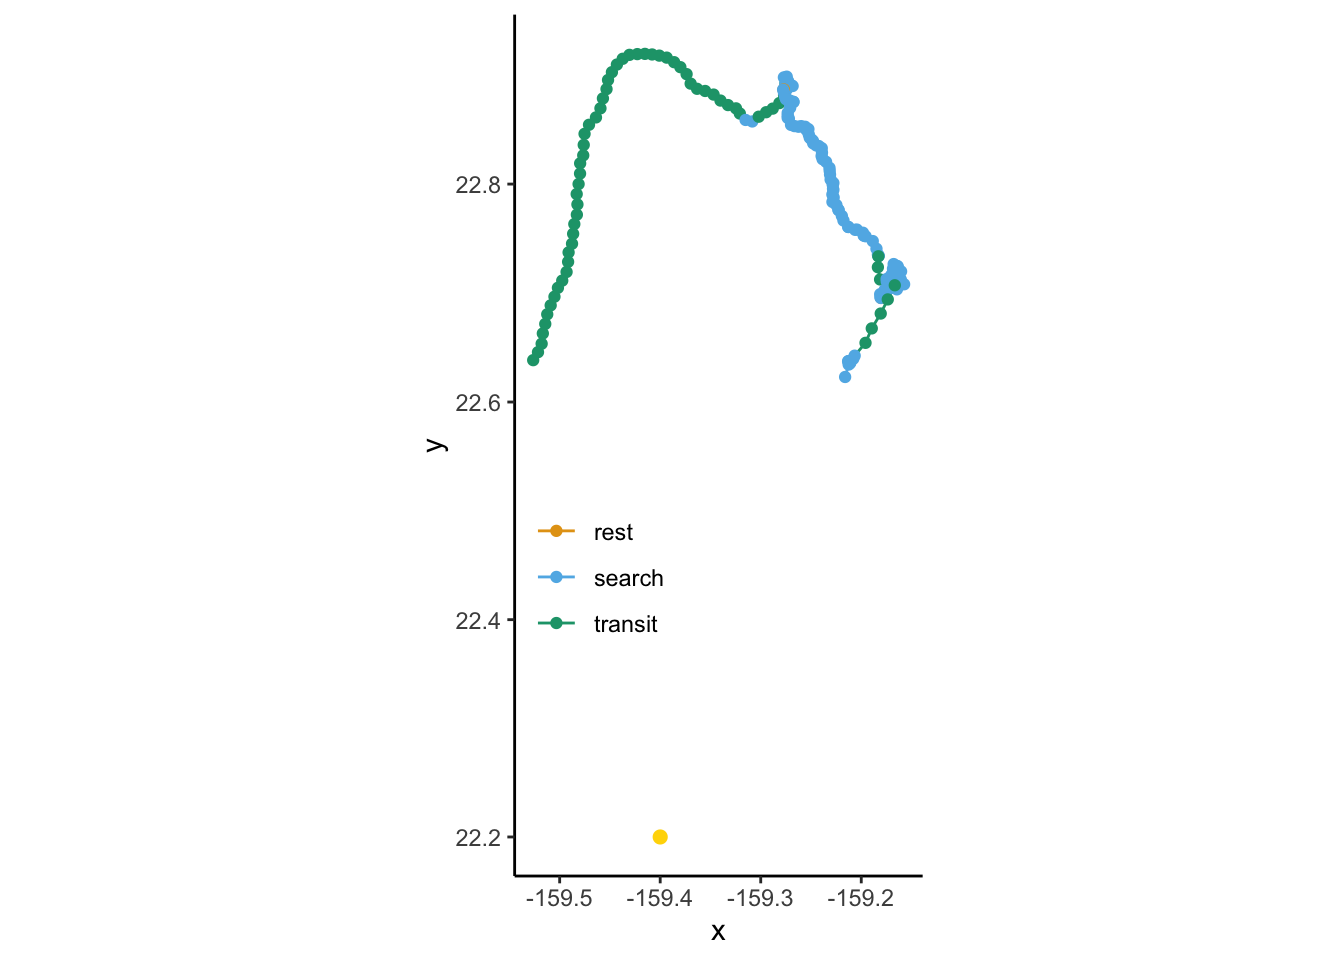
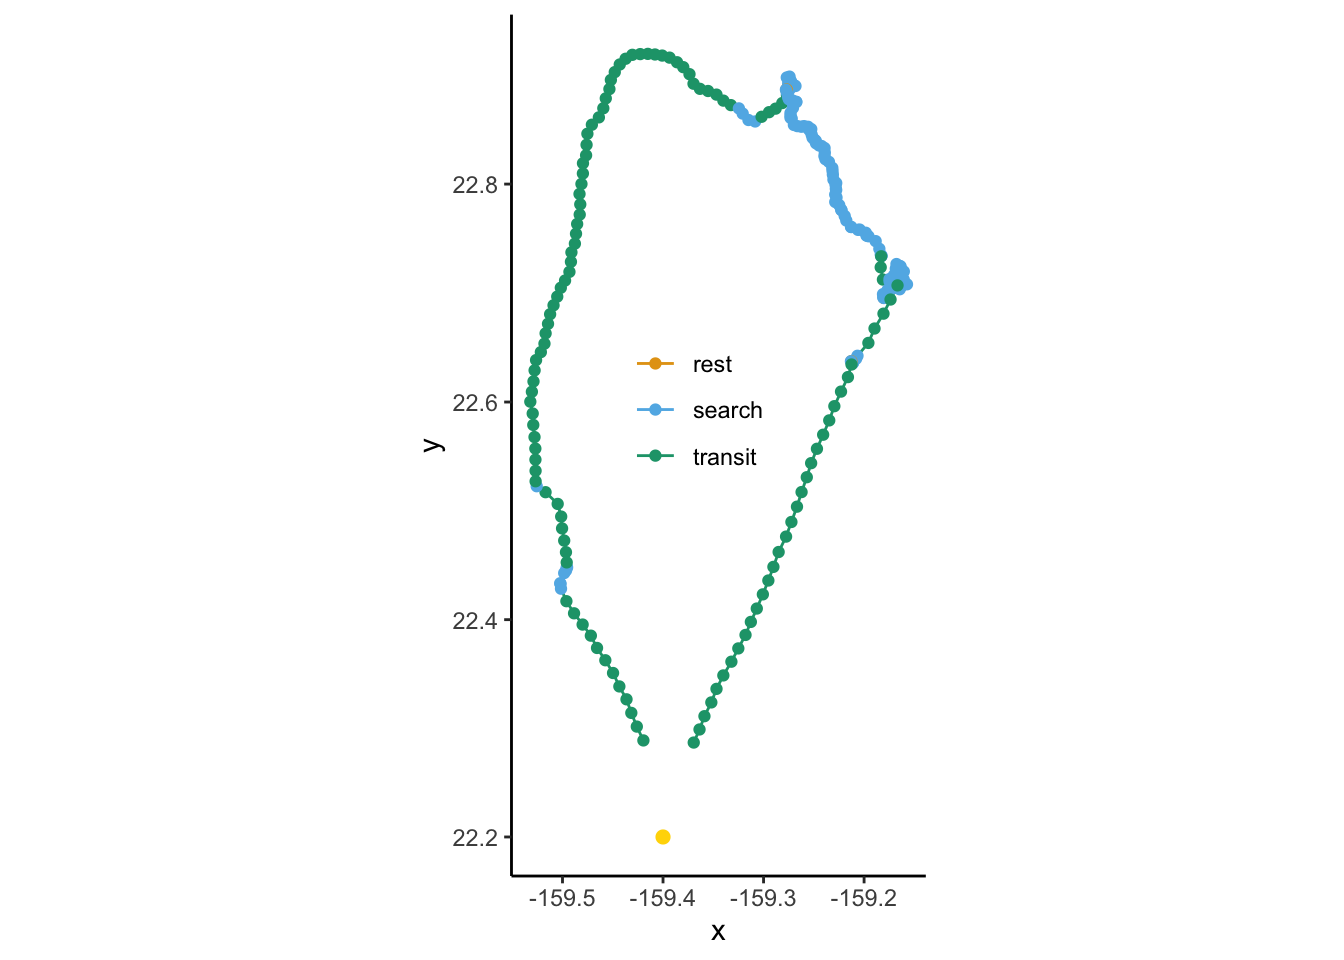
change distance threshold to 10 km

diff --git a/analysis/workflow/01_trips.html b/analysis/workflow/01_trips.html
@@ -128,11 +128,11 @@ code span.wa { color: #60a0b0; font-weight: bold; font-style: italic; } /* Warni
 <h2 class="anchored" data-anchor-id="trip-summary">Trip summary</h2>
 <p>RFBO tracks were cleaned and filtered according to the following:</p>
 <ul>
-<li><p>Tracks were split into trips, defined as excursions &gt;50 km from the colony lasting &gt;2 hours.</p></li>
+<li><p>Tracks were split into trips, defined as excursions &gt;10 km from the colony lasting &gt;2 hours.</p></li>
 <li><p>Relocations within trips were re-discretized using linear interpolation at 2 min intervals.</p></li>
 <li><p>Only trips with gaps ≤1 relocation were retained.</p></li>
 </ul>
-<p>That left 34 trips from 11 individuals. This sample size is small, so we probably want to relax the constraints.</p>
+<p>That left 17 trips from 8 individuals. This sample size is small, so we probably want to relax the constraints.</p>
 </section>
 <section id="movement-modeling" class="level2">
 <h2 class="anchored" data-anchor-id="movement-modeling">Movement modeling</h2>
@@ -153,17 +153,17 @@ code span.wa { color: #60a0b0; font-weight: bold; font-style: italic; } /* Warni
 <tr class="odd">
 <td><em>transit</em></td>
 <td>1.3</td>
-<td>0.37</td>
+<td>0.30</td>
 </tr>
 <tr class="even">
 <td><em>search</em></td>
-<td>0.37</td>
+<td>0.38</td>
 <td>0.18</td>
 </tr>
 <tr class="odd">
 <td><em>rest</em></td>
-<td>0.048</td>
-<td>0.028</td>
+<td>0.049</td>
+<td>0.022</td>
 </tr>
 </tbody>
 </table>
@@ -180,18 +180,18 @@ code span.wa { color: #60a0b0; font-weight: bold; font-style: italic; } /* Warni
 <tbody>
 <tr class="odd">
 <td><em>transit</em></td>
-<td>-0.011</td>
-<td>7.2</td>
+<td>-0.010</td>
+<td>6.5</td>
 </tr>
 <tr class="even">
 <td><em>search</em></td>
-<td>-0.043</td>
-<td>1.7</td>
+<td>-0.011</td>
+<td>1.3</td>
 </tr>
 <tr class="odd">
 <td><em>rest</em></td>
-<td>-0.015</td>
-<td>2.7</td>
+<td>0.0080</td>
+<td>2.5</td>
 </tr>
 </tbody>
 </table>
@@ -242,13 +242,13 @@ code span.wa { color: #60a0b0; font-weight: bold; font-style: italic; } /* Warni
 </section>
 <section id="example-decoded-trip" class="level3">
 <h3 class="anchored" data-anchor-id="example-decoded-trip">Example decoded trip</h3>
-<p>Map of a trip with and without KPNWR for scale.</p>
+<p>Map of a trip with KPNWR for scale.</p>
 <div class="cell">
 <details>
 <summary>Code</summary>
 <div class="sourceCode cell-code" id="cb2"><pre class="sourceCode r code-with-copy"><code class="sourceCode r"><span id="cb2-1"><a href="#cb2-1" aria-hidden="true" tabindex="-1"></a>kpnwr <span class="ot">&lt;-</span> <span class="fu">c</span>(<span class="at">lon =</span> <span class="sc">-</span><span class="fl">159.4</span>, <span class="at">lat =</span> <span class="fl">22.2</span>)</span>
 <span id="cb2-2"><a href="#cb2-2" aria-hidden="true" tabindex="-1"></a></span>
-<span id="cb2-3"><a href="#cb2-3" aria-hidden="true" tabindex="-1"></a>burst <span class="ot">&lt;-</span> <span class="fu">filter</span>(tracks, burst <span class="sc">==</span> <span class="st">"1149_0046"</span>) <span class="sc">%&gt;%</span> </span>
+<span id="cb2-3"><a href="#cb2-3" aria-hidden="true" tabindex="-1"></a>burst <span class="ot">&lt;-</span> <span class="fu">filter</span>(tracks, burst <span class="sc">==</span> <span class="st">"1149_0054"</span>) <span class="sc">%&gt;%</span> </span>
 <span id="cb2-4"><a href="#cb2-4" aria-hidden="true" tabindex="-1"></a>  <span class="fu">mutate</span>(<span class="at">state =</span> <span class="fu">factor</span>(state, </span>
 <span id="cb2-5"><a href="#cb2-5" aria-hidden="true" tabindex="-1"></a>                        <span class="at">levels =</span> <span class="dv">1</span><span class="sc">:</span><span class="dv">3</span>, </span>
 <span id="cb2-6"><a href="#cb2-6" aria-hidden="true" tabindex="-1"></a>                        <span class="at">labels =</span> <span class="fu">c</span>(<span class="st">"rest"</span>, <span class="st">"search"</span>, <span class="st">"transit"</span>)))</span>
@@ -261,27 +261,12 @@ code span.wa { color: #60a0b0; font-weight: bold; font-style: italic; } /* Warni
 <span id="cb2-13"><a href="#cb2-13" aria-hidden="true" tabindex="-1"></a>  <span class="fu">scale_color_manual</span>(<span class="at">values =</span> palette) <span class="sc">+</span></span>
 <span id="cb2-14"><a href="#cb2-14" aria-hidden="true" tabindex="-1"></a>  <span class="fu">coord_map</span>() <span class="sc">+</span></span>
 <span id="cb2-15"><a href="#cb2-15" aria-hidden="true" tabindex="-1"></a>  <span class="fu">theme_classic</span>() <span class="sc">+</span></span>
-<span id="cb2-16"><a href="#cb2-16" aria-hidden="true" tabindex="-1"></a>  <span class="fu">theme</span>(<span class="at">legend.justification =</span> <span class="fu">c</span>(<span class="dv">0</span>, <span class="dv">0</span>),</span>
-<span id="cb2-17"><a href="#cb2-17" aria-hidden="true" tabindex="-1"></a>        <span class="at">legend.position =</span> <span class="fu">c</span>(<span class="fl">0.01</span>, <span class="fl">0.25</span>),</span>
+<span id="cb2-16"><a href="#cb2-16" aria-hidden="true" tabindex="-1"></a>  <span class="fu">theme</span>(<span class="at">legend.justification =</span> <span class="fu">c</span>(<span class="fl">0.5</span>, <span class="fl">0.5</span>),</span>
+<span id="cb2-17"><a href="#cb2-17" aria-hidden="true" tabindex="-1"></a>        <span class="at">legend.position =</span> <span class="fu">c</span>(<span class="fl">0.45</span>, <span class="fl">0.55</span>),</span>
 <span id="cb2-18"><a href="#cb2-18" aria-hidden="true" tabindex="-1"></a>        <span class="at">legend.title =</span> <span class="fu">element_blank</span>())</span></code><button title="Copy to Clipboard" class="code-copy-button"><i class="bi"></i></button></pre></div>
 </details>
 <div class="cell-output-display">
 <p><img src="01_trips_files/figure-html/decoded-trips-1.png" class="img-fluid" width="672"></p>
-</div>
-<details>
-<summary>Code</summary>
-<div class="sourceCode cell-code" id="cb3"><pre class="sourceCode r code-with-copy"><code class="sourceCode r"><span id="cb3-1"><a href="#cb3-1" aria-hidden="true" tabindex="-1"></a><span class="fu">ggplot</span>(burst, <span class="fu">aes</span>(x, y, <span class="at">color =</span> state, <span class="at">group =</span> <span class="dv">1</span>)) <span class="sc">+</span></span>
-<span id="cb3-2"><a href="#cb3-2" aria-hidden="true" tabindex="-1"></a>  <span class="fu">geom_path</span>() <span class="sc">+</span></span>
-<span id="cb3-3"><a href="#cb3-3" aria-hidden="true" tabindex="-1"></a>  <span class="fu">geom_point</span>() <span class="sc">+</span></span>
-<span id="cb3-4"><a href="#cb3-4" aria-hidden="true" tabindex="-1"></a>  <span class="fu">scale_color_manual</span>(<span class="at">values =</span> palette) <span class="sc">+</span></span>
-<span id="cb3-5"><a href="#cb3-5" aria-hidden="true" tabindex="-1"></a>  <span class="fu">coord_map</span>() <span class="sc">+</span></span>
-<span id="cb3-6"><a href="#cb3-6" aria-hidden="true" tabindex="-1"></a>  <span class="fu">theme_classic</span>() <span class="sc">+</span></span>
-<span id="cb3-7"><a href="#cb3-7" aria-hidden="true" tabindex="-1"></a>  <span class="fu">theme</span>(<span class="at">legend.justification =</span> <span class="fu">c</span>(<span class="dv">0</span>, <span class="dv">0</span>),</span>
-<span id="cb3-8"><a href="#cb3-8" aria-hidden="true" tabindex="-1"></a>        <span class="at">legend.position =</span> <span class="fu">c</span>(<span class="fl">0.45</span>, <span class="fl">0.25</span>),</span>
-<span id="cb3-9"><a href="#cb3-9" aria-hidden="true" tabindex="-1"></a>        <span class="at">legend.title =</span> <span class="fu">element_blank</span>())</span></code><button title="Copy to Clipboard" class="code-copy-button"><i class="bi"></i></button></pre></div>
-</details>
-<div class="cell-output-display">
-<p><img src="01_trips_files/figure-html/decoded-trips-2.png" class="img-fluid" width="672"></p>
 </div>
 </div>
 </section>
